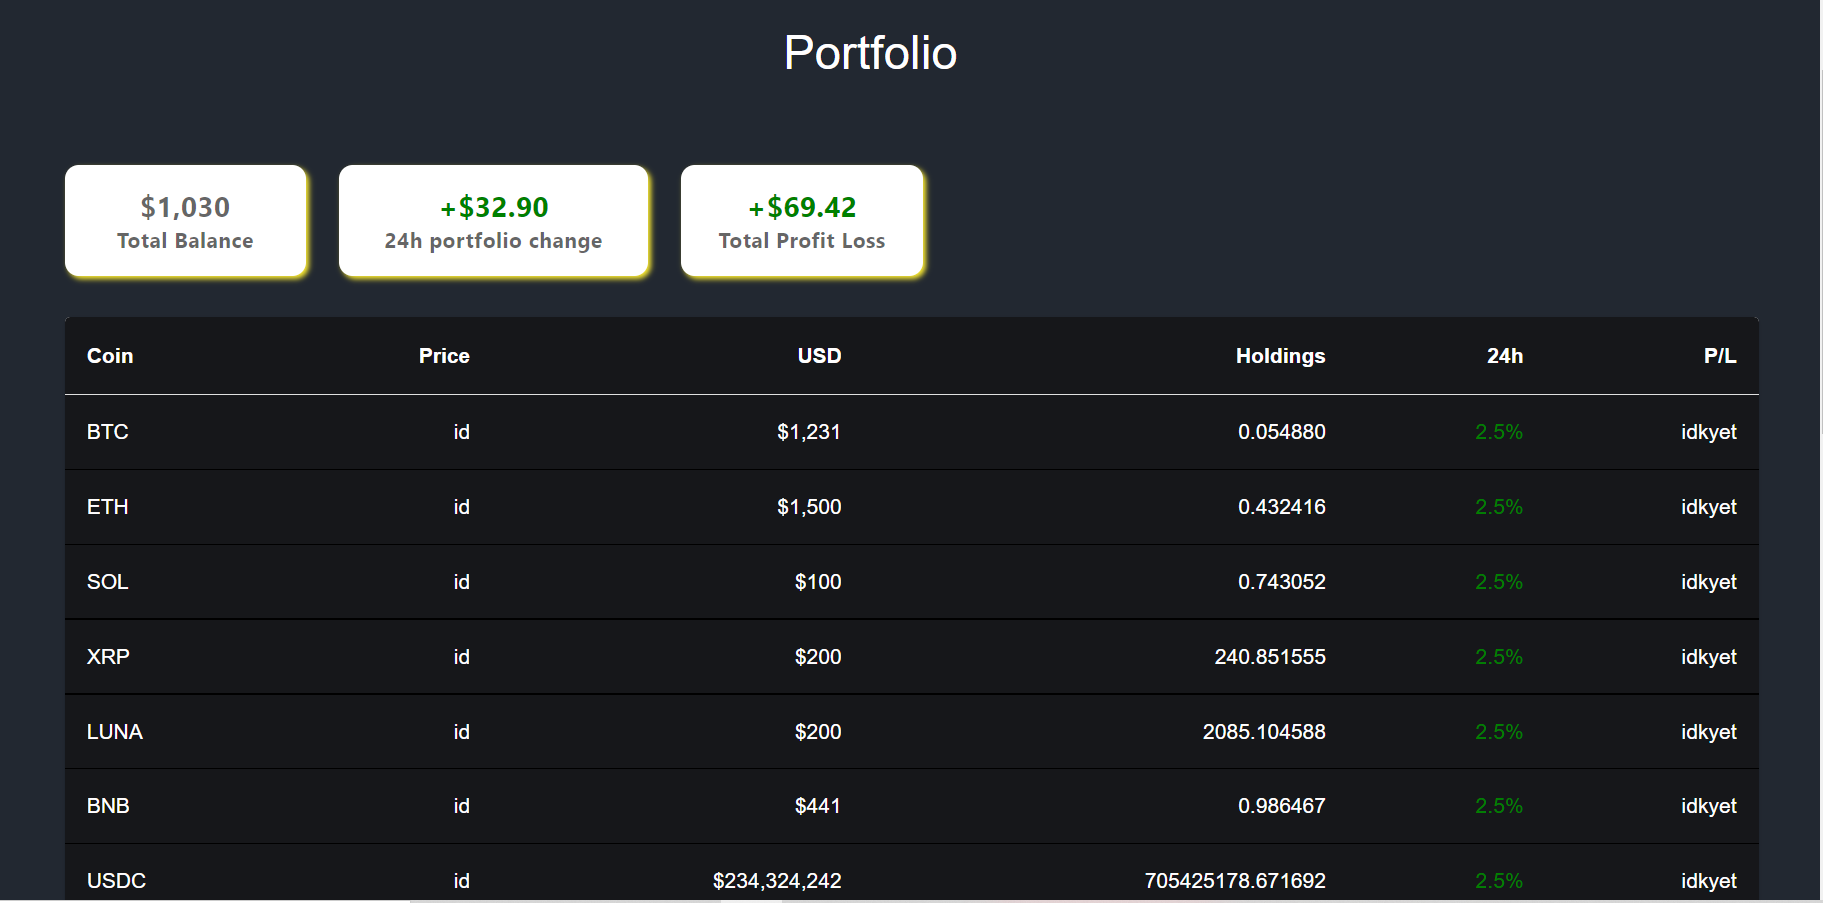
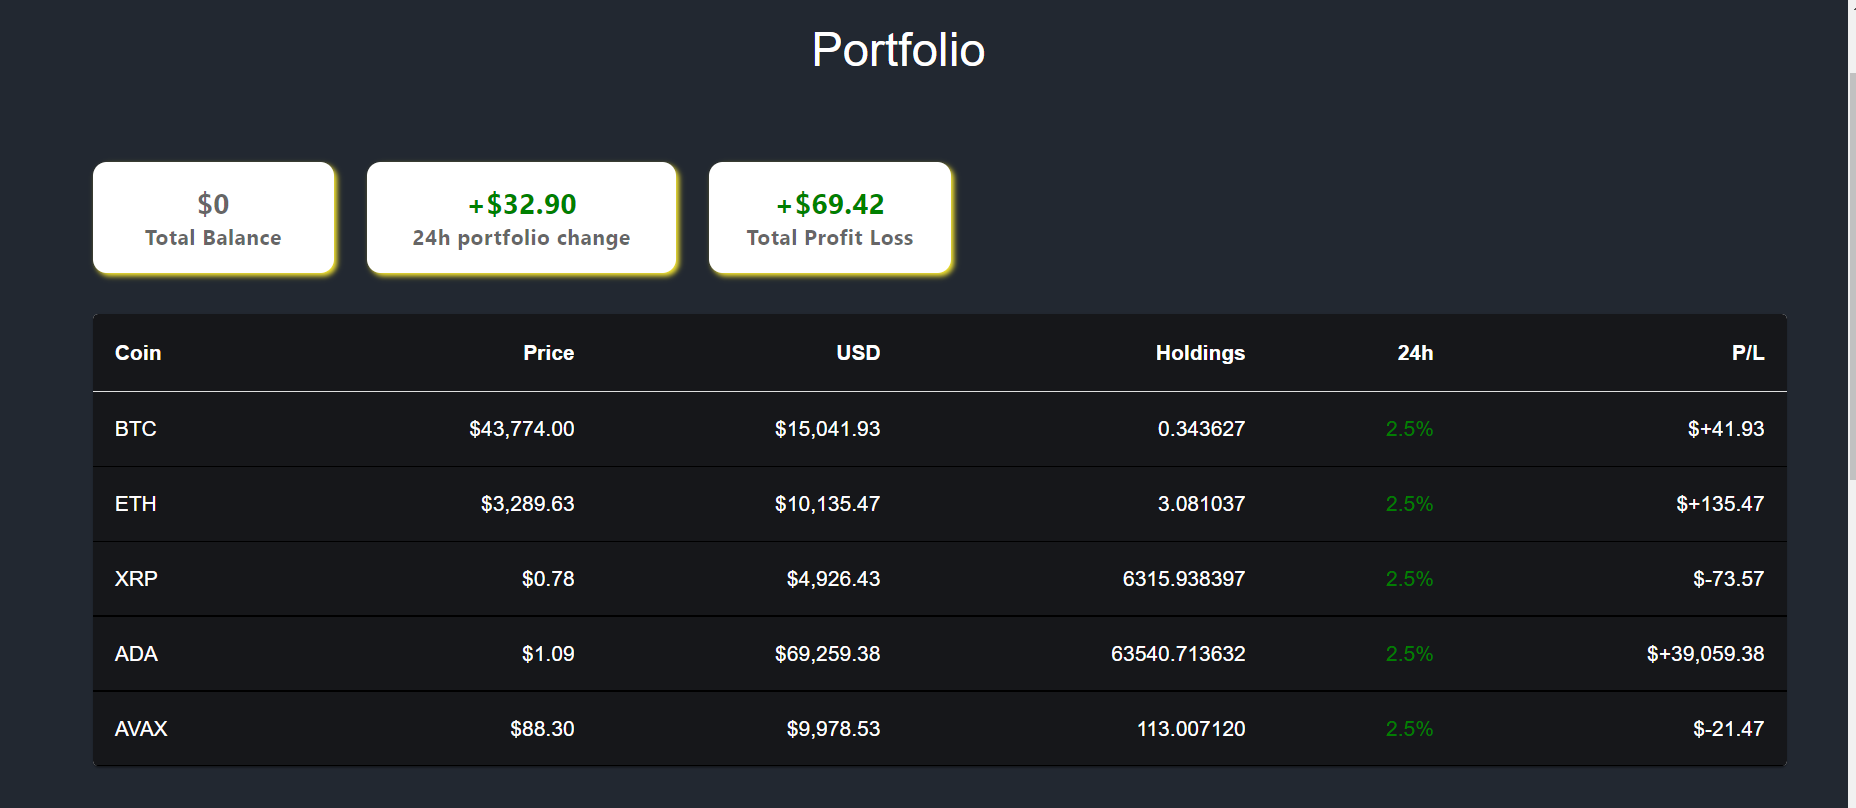
changed portfolio image on home page

diff --git a/src/Pages/Portfolio.js b/src/Pages/Portfolio.js
@@ -56,9 +56,6 @@ useEffect(() =>{
     })
 }, [])
 
-
-
-
 const useStyles = makeStyles((theme) => ({
   gridClassName: {
     boxShadow: "2px 2px 4px rgb(255 238 51 / 100%)",
@@ -127,7 +124,7 @@ const Item = styled(Paper)(({ theme }) => ({
   return <div className="App">Loading...</div>;
 }
   return (
-    <div>
+        <div>
     <Container style={{ textAlign: "center" }}>
       <Typography variant="h4" style={{ padding: 30 }}>
           Portfolio
@@ -136,7 +133,7 @@ const Item = styled(Paper)(({ theme }) => ({
         <Grid container rowSpacing={1} columnSpacing={{ xs: 1, sm: 2, md: 3 }}>
           <Grid item xs={2}>
             <Item className={classes.gridClassName} style={{padding: 15}}>
-              <div className={classes.boxFont2}>$1,030</div>
+              <div className={classes.boxFont2}>$0</div>
               <div className={classes.boxFontUnder}>Total Balance</div>
           </Item>
           </Grid>
